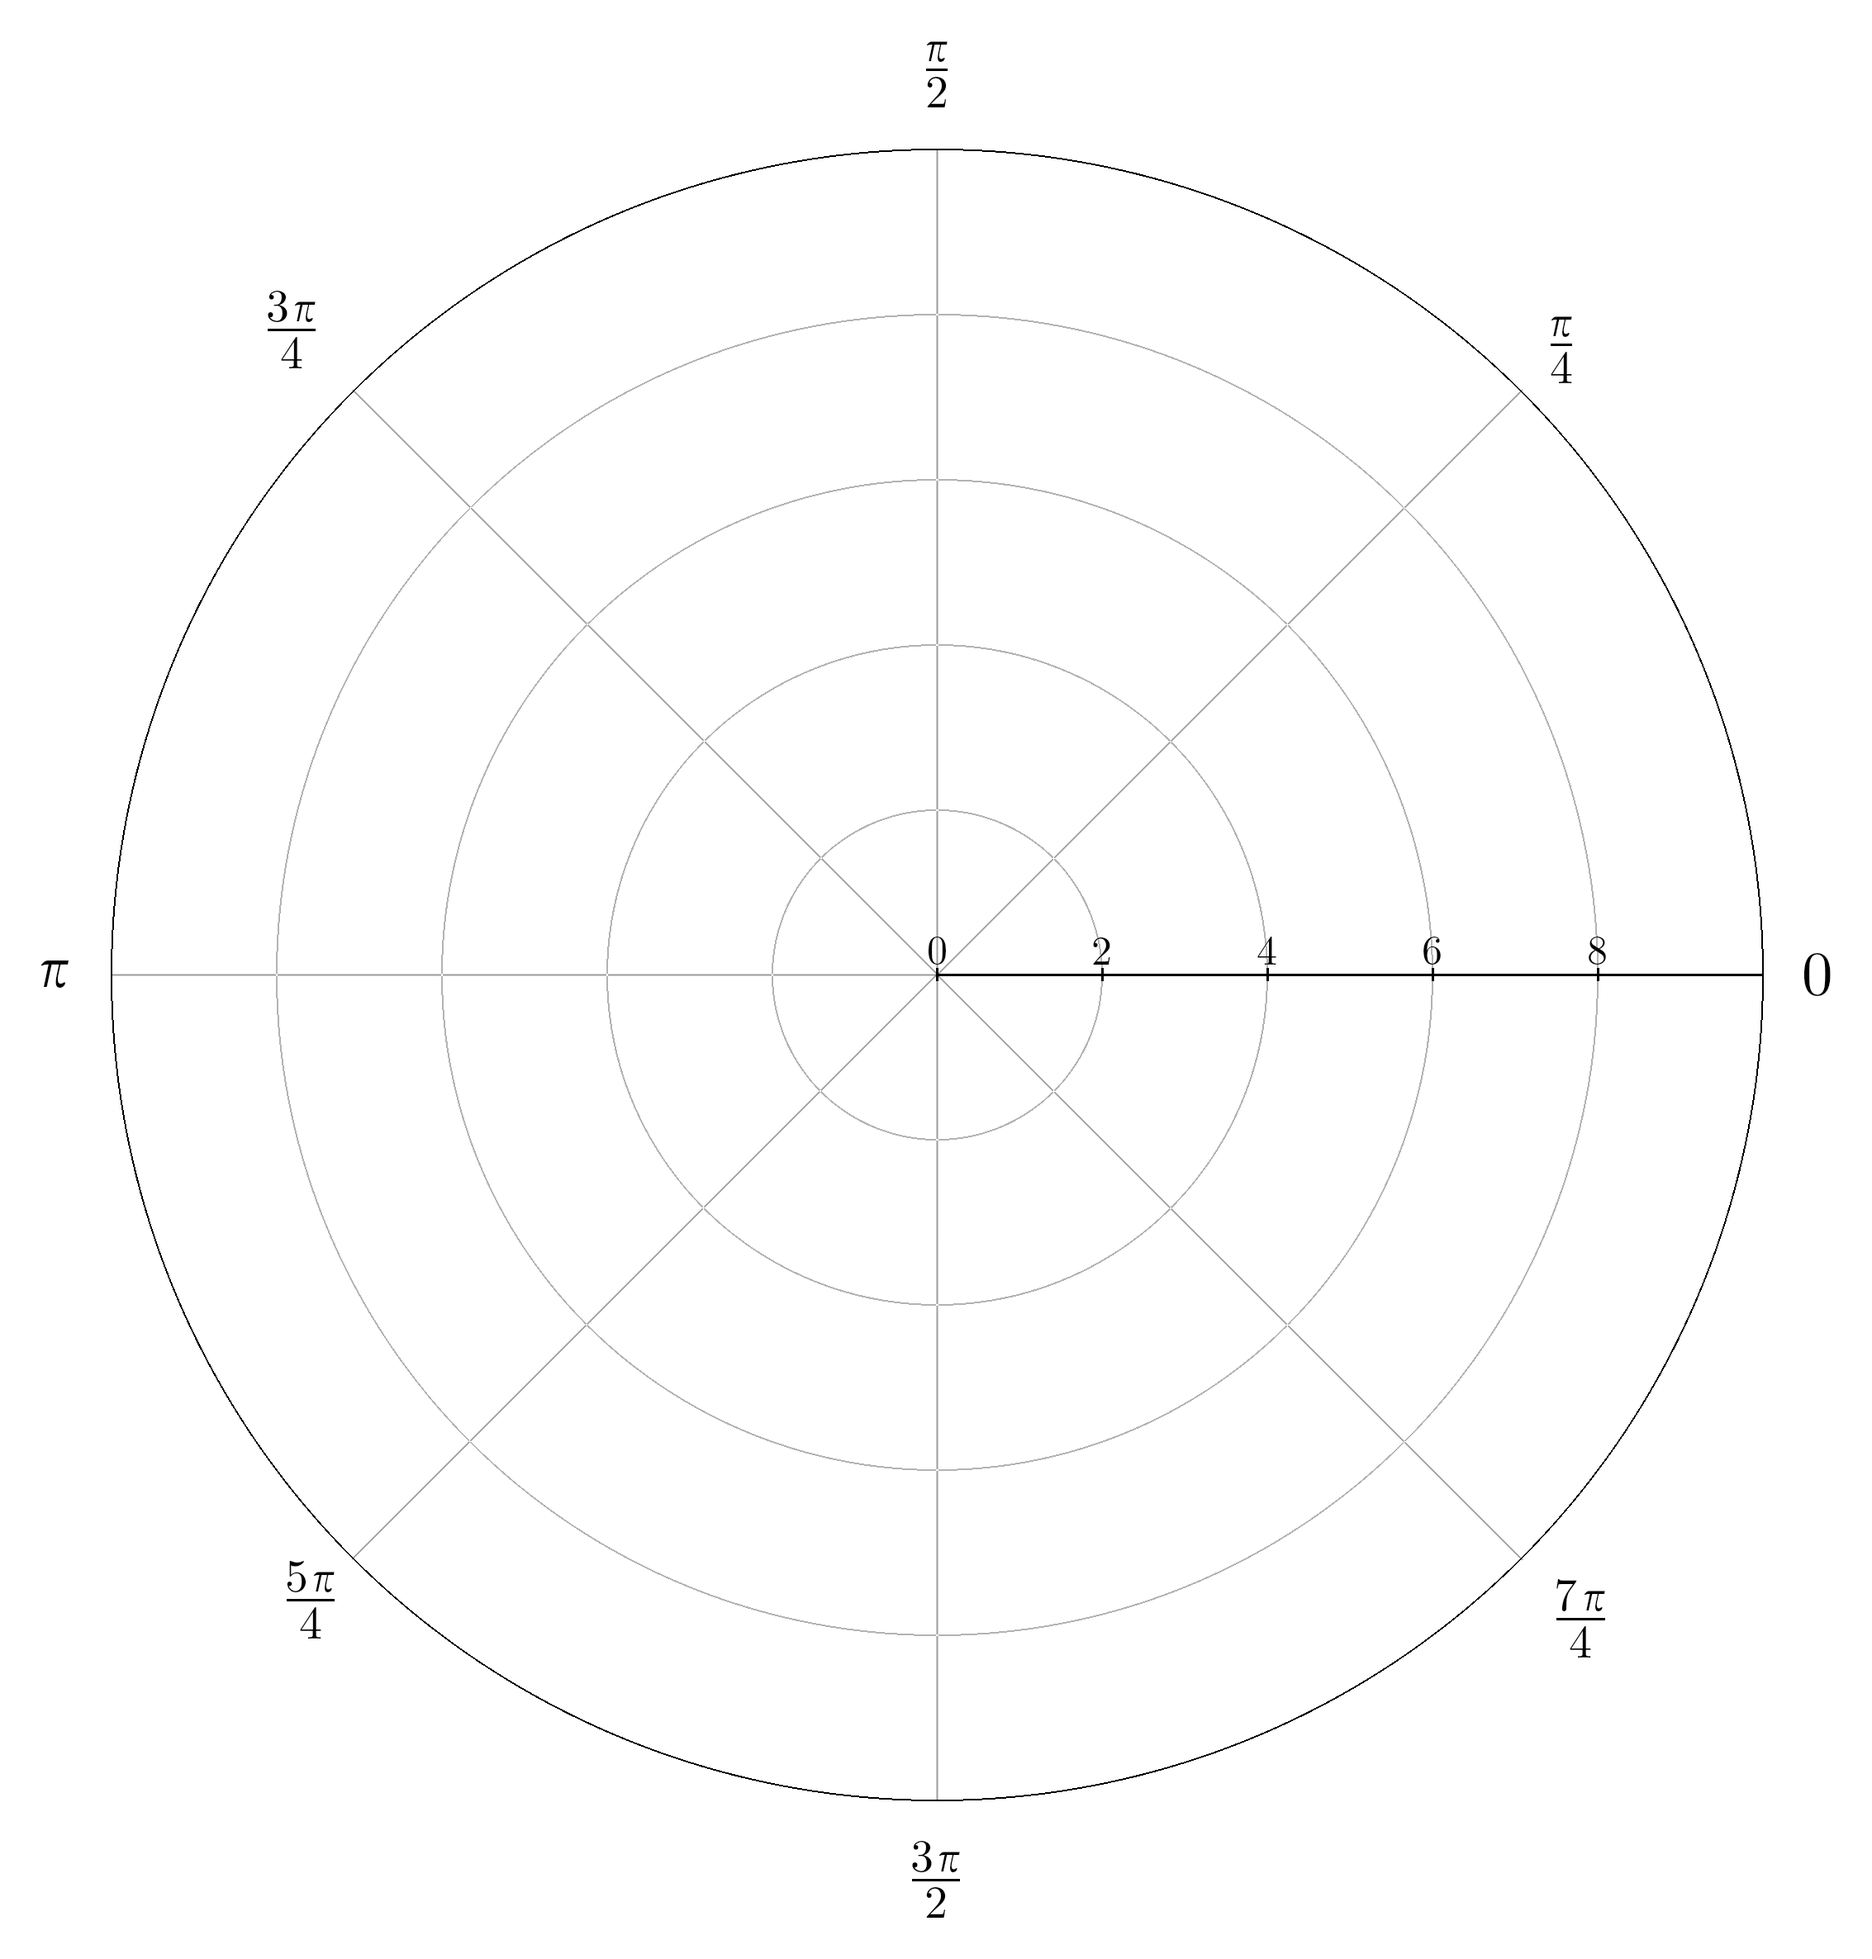
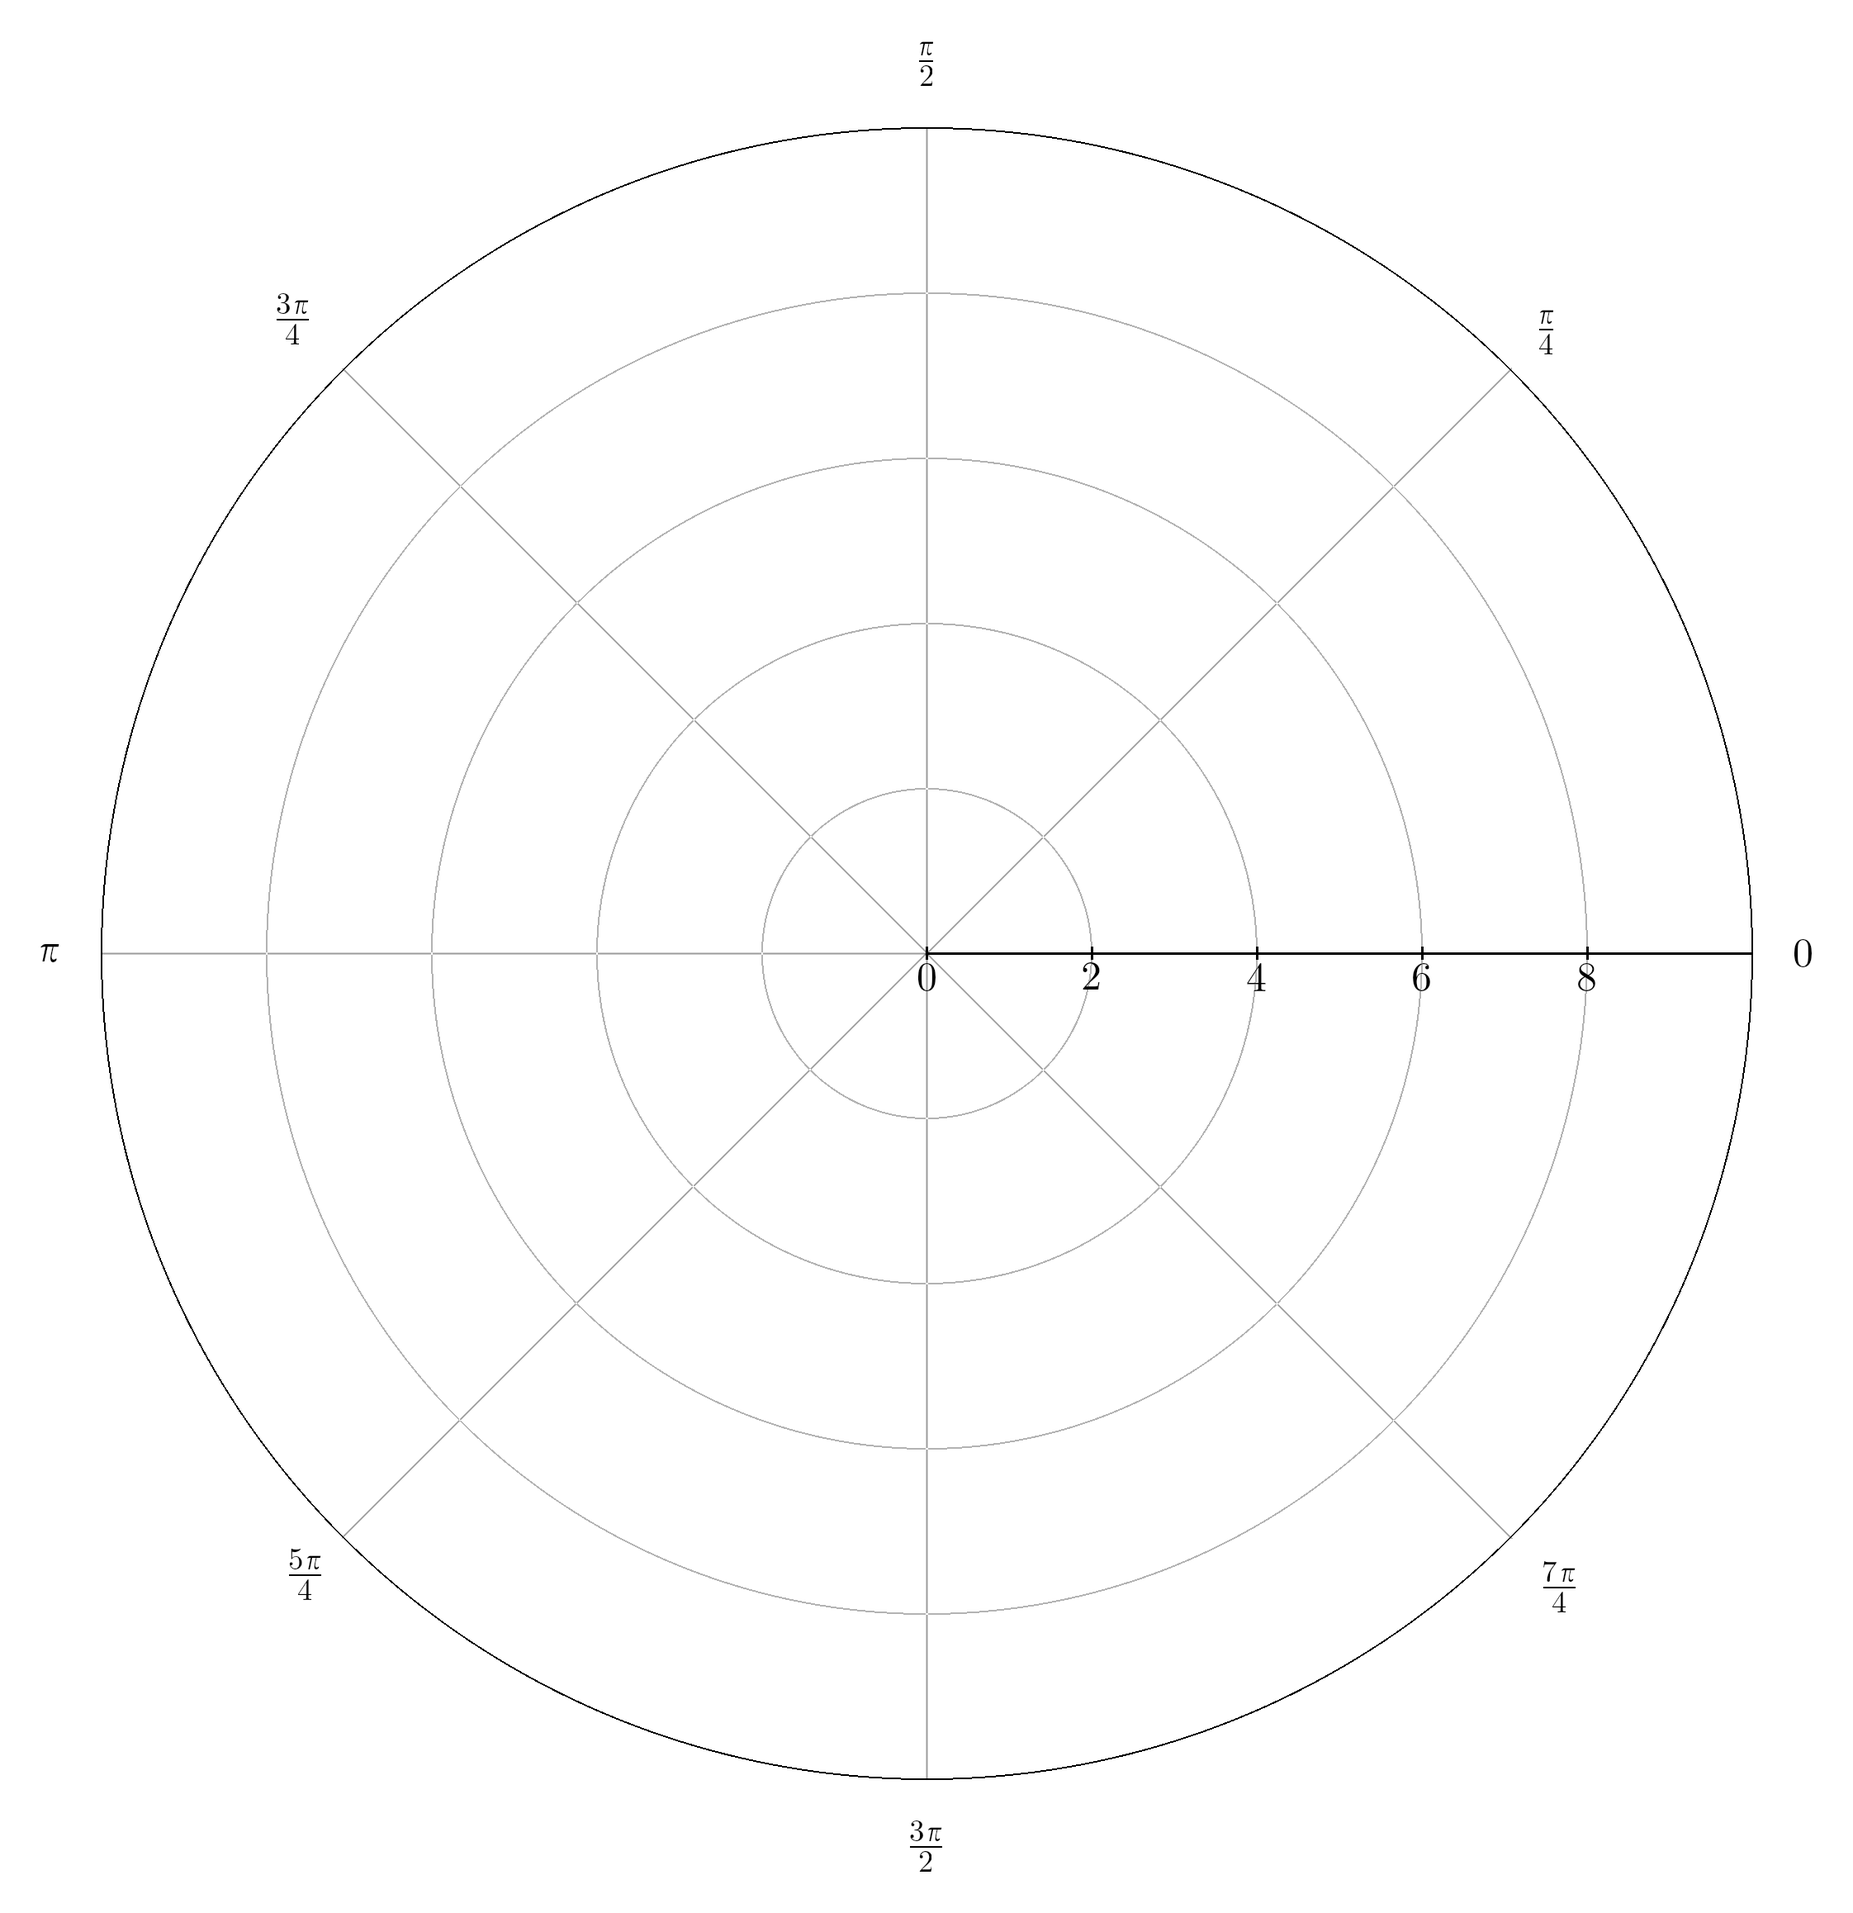
Added pillars to polar plot

diff --git a/src/kaxe/objects/d2/pillar.py b/src/kaxe/objects/d2/pillar.py
@@ -1,4 +1,5 @@
 
+from typing import Union
 from ...core.styles import *
 from ...core.shapes import shapes
 from ...core.symbol import makeSymbolShapes
@@ -33,7 +34,6 @@ class Pillars:
 
     def __init__(self, x, heights, color:tuple=None, width:int=None) -> None:
     
-
         self.x = x
         self.heights = heights
         self.width = width
@@ -42,8 +42,10 @@ class Pillars:
         self.rects = []
         
         # color
+        self.randomColor = False
         if color is None:
             self.color = getRandomColor()
+            self.randomColor = True
         else:
             self.color = color
 
@@ -56,11 +58,36 @@ class Pillars:
         self.farTop = max(self.heights)
         self.farBottom = 0
 
-        self.supports = [identities.XYPLOT]
+        self.supports = [identities.XYPLOT, identities.POLAR]
 
     
     def finalize(self, parent):
+        
+        if parent.identity == identities.XYPLOT:
+            self.finalizeXYPLOT(parent)
+        
+        elif parent.identity == identities.POLAR:
+            self.finalizePOLAR(parent)
 
+
+    def finalizePOLAR(self, parent):
+        
+        if self.width is None:
+            self.width = 5
+
+        if self.randomColor:
+            self.color = list(self.color)
+            self.color[-1] = 150
+            self.color = tuple(self.color)
+
+        for i, angle in enumerate(self.x):
+            h = self.heights[i]
+
+            shapes.Arc(math.degrees(angle)-90-self.width/2, self.width, parent.pixel(0,0), vlen(vdiff(parent.pixel(0,0), parent.pixel(0, h))), batch=self.batch, color=self.color)
+
+
+    def finalizeXYPLOT(self, parent):
+        
         x0, y0 = parent.pixel(0, 0)
         x1, _ = parent.pixel(len(self.x) / (self.farRight - self.farLeft), 0)
         width = (x1 - x0) * 0.75

diff --git a/src/kaxe/plot/polar.py b/src/kaxe/plot/polar.py
@@ -28,9 +28,11 @@ class PolarPlot(Window):
     
     """
     
-    def __init__(self,  window:list=None): # |
+    def __init__(self,  window:list=None, useDegrees:bool=False): # |
         super().__init__()
         self.identity = POLARPLOT
+
+        self.useDegrees = useDegrees
         
         self.axis = [lambda: self.radiusAxis]
 
@@ -51,9 +53,9 @@ class PolarPlot(Window):
 
         self.scale = (1,1)
         self.radiusTitle = None
-        self.radiusAxis = Axis((1,0), (0,1), 'rNumbers')
+        self.radiusAxis = Axis((1,0), (0,-1), 'rNumbers')
 
-        self.angleAxis = PolarAxis()
+        self.angleAxis = PolarAxis(useDegrees)
         self.batch = shapes.Batch()
 
 
@@ -302,7 +304,7 @@ class PolarAxis(Axis):
                 batch=self.batch, 
                 anchor_x="center", 
                 anchor_y="center", 
-                fontSize=int(fontsize*1.5), 
+                fontSize=int(fontsize), 
                 color=parent.getAttr('color')
             )
 

diff --git a/docs/files.py b/docs/files.py
@@ -7,6 +7,8 @@ from mdit_py_plugins.footnote import footnote_plugin
 import shutil
 import math
 import sys
+import random
+import numpy as np
 
 sys.path.insert(0, str(Path('src').resolve()))
 import kaxe
@@ -145,6 +147,23 @@ def createAllDocImages():
         [x for x,y,z in points], [y for x,y,z in points], [z for x,y,z in points]
     ), 'points3d')
     create3DWithObject(kaxe.Function3D(lambda x,y: math.sin(x*y/10)), 'function3d')
+
+    plt = kaxe.PolarPlot(useDegrees=True)
+        
+    for _ in range(10):
+        
+        N = random.randint(1, 10)
+        theta = np.linspace(0.0, 2 * np.pi, N)
+        radii = 10 * np.random.rand(N)
+
+        pillar = kaxe.Pillars(list(theta), list(radii), width=random.randint(10, 20))
+
+        # pillar = kaxe.Pillars([math.pi], [5], width=random.randint(1, 10))
+            
+        plt.add(pillar)
+
+    plt.save(j('pillarspolar'))
+
 
 try:
     copyImagesFromTest()

diff --git a/tests/test.py b/tests/test.py
@@ -1235,6 +1235,25 @@ class Test:
         grid.show()
 
 
+    def testBarPolarPlot():
+        
+        plt = kaxe.PolarPlot(useDegrees=True)
+        
+        for _ in range(10):
+        
+            N = randint(1, 10)
+            theta = np.linspace(0.0, 2 * np.pi, N)
+            radii = 10 * np.random.rand(N)
+
+            pillar = kaxe.Pillars(list(theta), list(radii), width=random.randint(10, 20))
+
+            # pillar = kaxe.Pillars([math.pi], [5], width=random.randint(1, 10))
+            
+            plt.add(pillar)
+
+        plt.show()
+
+
 
 if __name__ == '__main__':
     import os
@@ -1245,5 +1264,4 @@ if __name__ == '__main__':
 
     #Test.testTooManyNumbers()
     
-    Test.argument()
-    kaxe.Axis
+    Test.testBarPolarPlot()

diff --git a/src/kaxe/core/shapes.py b/src/kaxe/core/shapes.py
@@ -471,6 +471,10 @@ class LineSegment(Shape):
 class Arc(Shape):
     
     def __init__(self, phaseshift:int, angle:int, center:tuple, radius:int, color:tuple=BLACK, batch:Batch=None, *args, **kwargs):
+        """
+        phaseshift and angle is in degrees
+        """
+
         self.phaseshift = phaseshift
         self.angle = angle
         self.radius = int(radius)

diff --git a/docs/pages/objects.rst b/docs/pages/objects.rst
@@ -64,6 +64,9 @@ Smart objects adapts to which input is given at creates the corrosponding object
 
     .. image:: /_static/pillars.png
         :width: 400 px
+    
+    .. image:: /_static/pillarspolar.png
+        :width: 400 px
 
 .. .. autoclass:: kaxe.RootLocus
 ..     :members:
